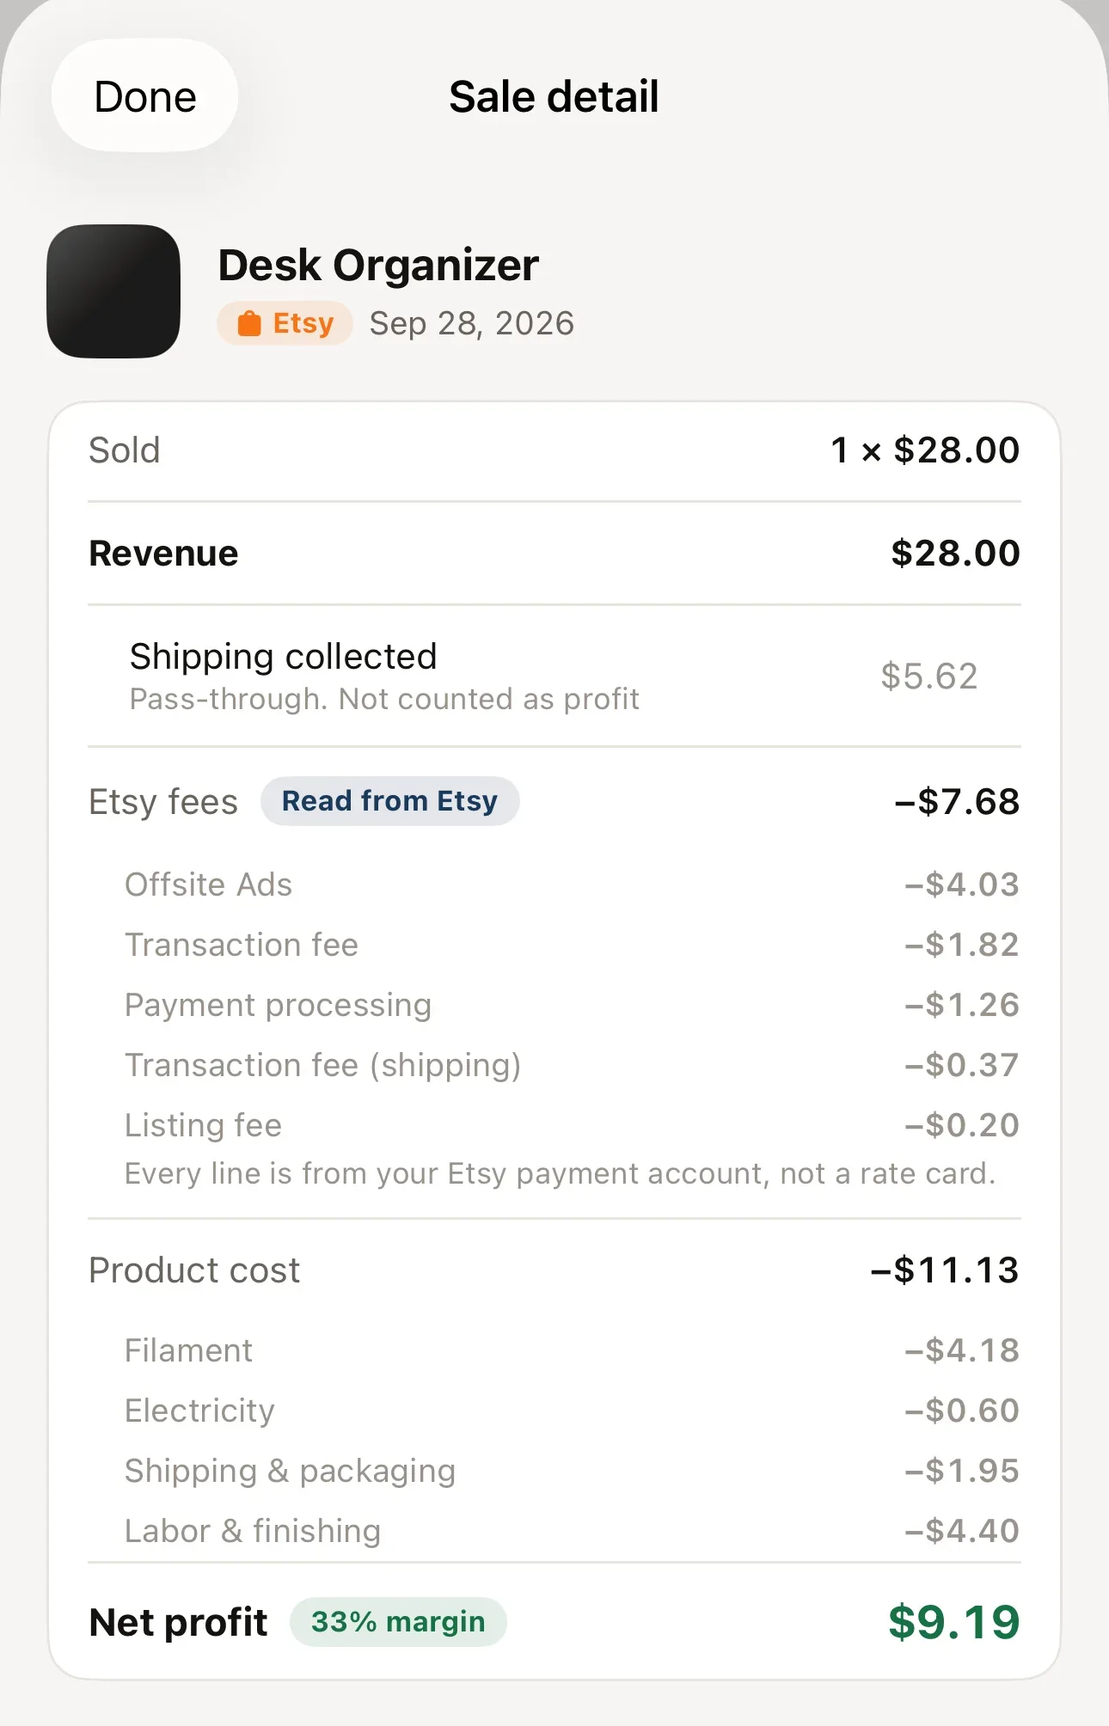
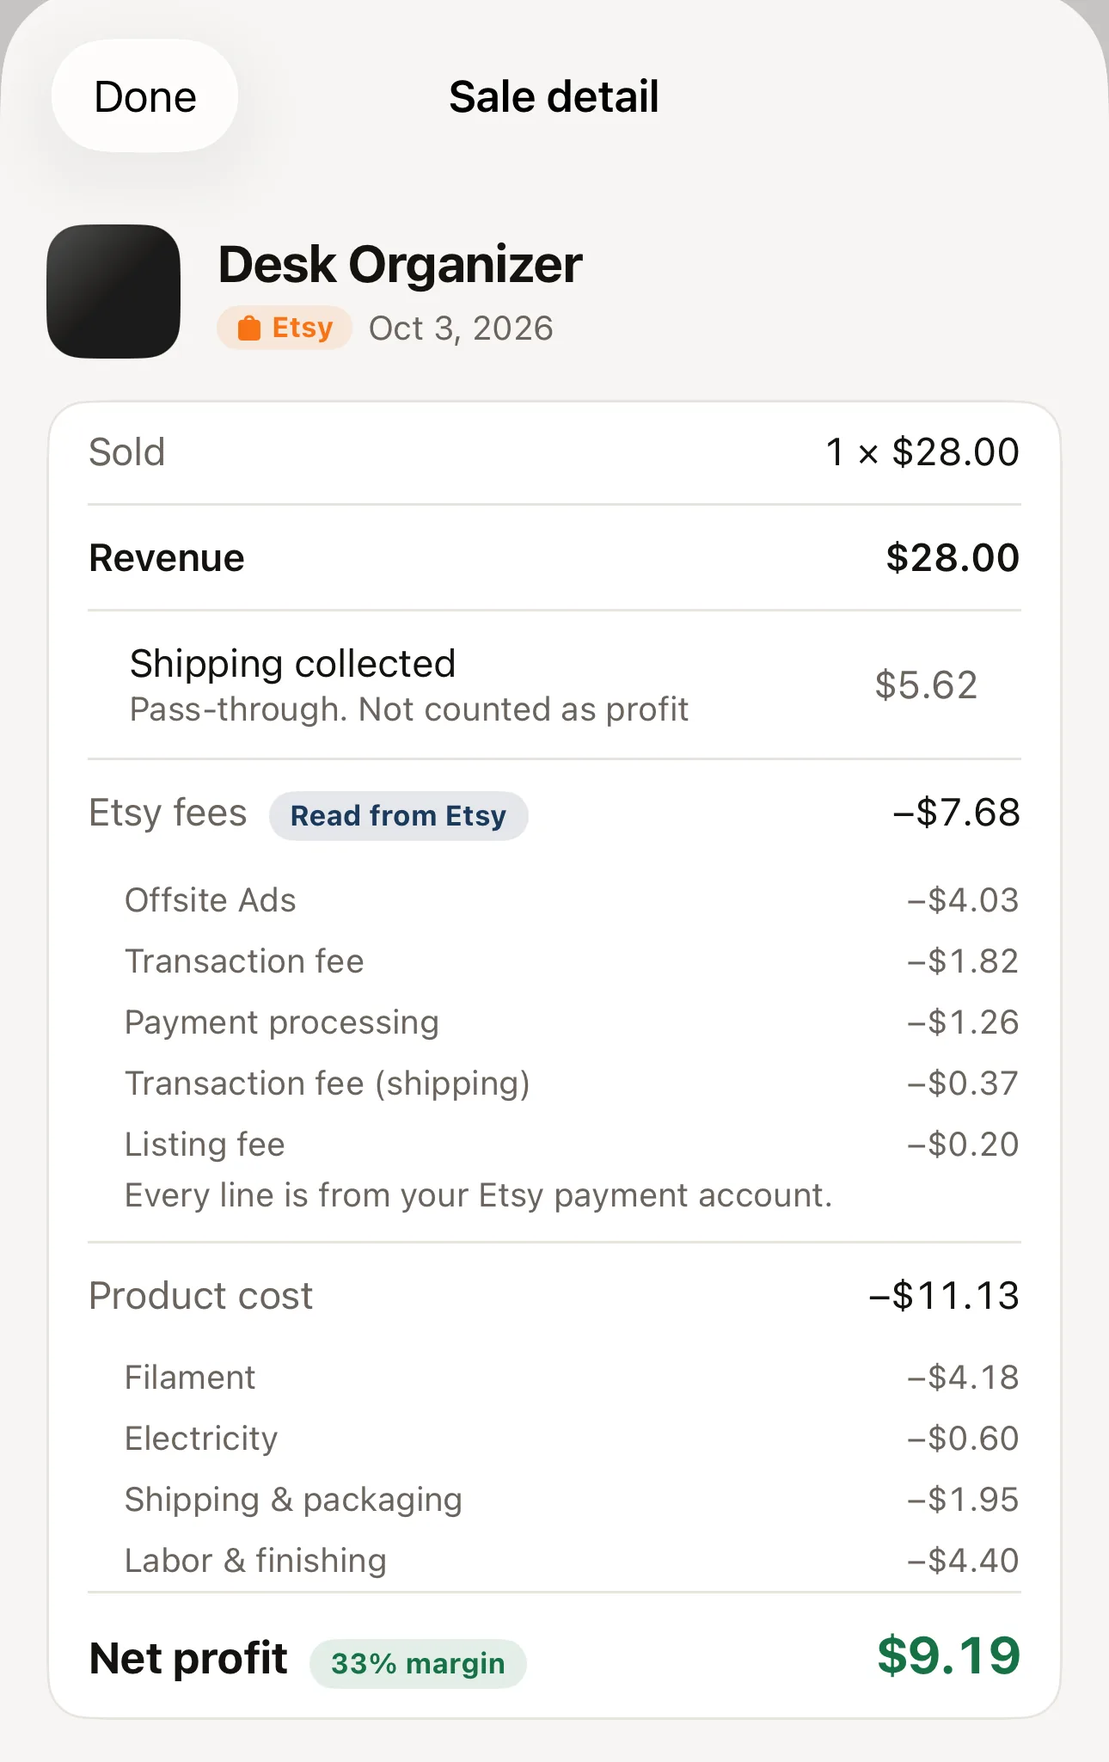
Site: author page in first person; drop the "not a rate card" tag-on
Author page: one name, first person. The headline says who Sean is, the
opening is his own account of why he built the app, the shop facts are a
scannable list, and the writing is grouped as guides, comparisons and
reference with one download action at the end.

Copy: three lines that ended "..., not a rate card" now stop at where the
number comes from. The sale receipt image is a fresh capture with the
one-line footnote "Every line is from your Etsy payment account."

diff --git a/author/sean.html b/author/sean.html
@@ -113,6 +113,61 @@
   ]
 }
   </script>
+  <style>
+    /* Author page only. Sizes, colors and space are the shared tokens; nothing here adds a
+       size or a hue. One layout idea, used three times: a label rail beside a content column,
+       ruled like the fee lines the app reads. */
+    .doc{--rail:140px}
+    .doc :focus-visible{outline:2px solid var(--cta);outline-offset:2px;border-radius:4px}
+
+    /* ---- label rail + value column: the shop facts, and the profile links ---- */
+    .rows{margin:var(--s6) 0 0;border-top:1px solid var(--rule-2);border-bottom:1px solid var(--rule-2)}
+    h2 + .rows{margin-top:var(--s4)}
+    .rows > div{display:grid;grid-template-columns:var(--rail) minmax(0,1fr);column-gap:var(--s5);align-items:baseline;padding:var(--s3) 0}
+    .rows > div + div{border-top:1px solid var(--rule)}
+    .rows dt{font-size:var(--fs-ui);color:var(--muted)}
+    .rows dd{margin:0;color:var(--body);text-wrap:pretty}
+    .rows + .fine{margin:var(--s3) 0 0}
+    /* A dd sits outside article.css's in-copy link rule, so the same link is restated here. */
+    .rows dd > a{color:var(--cta);font-weight:600;text-decoration:underline;text-decoration-thickness:1px;
+      text-underline-offset:.18em;text-decoration-color:color-mix(in srgb,var(--cta) 40%,transparent)}
+    .rows dd > a:hover{color:var(--cta-hover);text-decoration-color:currentColor}
+    /* 44px press areas that don't grow the row: inline padding widens the target, not the line. */
+    .rows dd > a{padding:11px 0}
+    .links{list-style:none;margin:-10px 0;padding:0;display:flex;flex-wrap:wrap;column-gap:var(--s5)}
+    .links li{margin:0}
+    .links a{display:inline-block;padding:10px 0}
+
+    /* ---- his words: the one first-person passage on the page, a step up and in full ink ---- */
+    .said{margin:var(--s7) 0 0}
+    .said blockquote{margin:0;font-size:var(--fs-sub);line-height:1.4;letter-spacing:var(--ls-title);color:var(--ink);
+      text-indent:-.42em} /* hangs the opening quote mark in the margin so the text edge stays straight */
+    .said figcaption{margin-top:var(--s3);font-size:var(--fs-ui);color:var(--muted)}
+
+    /* ---- the writing index: group name in the rail, each title over its one-line description ---- */
+    .works{margin:var(--s5) 0 0;border-bottom:1px solid var(--rule-2)}
+    .works > div{display:grid;grid-template-columns:var(--rail) minmax(0,1fr);column-gap:var(--s5);align-items:baseline;
+      padding:var(--s5) 0;border-top:1px solid var(--rule)}
+    .works > div:first-child{border-top-color:var(--rule-2)}
+    .works h3{margin:0}
+    .works ul{list-style:none;margin:0;padding:0}
+    .works li{position:relative;margin:0;line-height:1.4}
+    .works li + li{margin-top:var(--s4)}
+    .works li a::after{content:"";position:absolute;inset:-8px 0} /* the whole entry is the press area */
+    .works li p{margin:2px 0 0;font-size:var(--fs-ui);line-height:1.5;color:var(--body)}
+    .works + p{margin-top:var(--s4)}
+
+    .cta p:last-child{margin-bottom:0}
+
+    @media (max-width:600px){
+      .doc{--rail:76px}
+      .rows > div,.links{column-gap:var(--s4)}
+      .said blockquote{font-size:var(--fs-lede);line-height:var(--lh-lede)}
+      .works > div{display:block}
+      .works h3{margin-bottom:var(--s3)}
+    }
+    @media (max-width:380px){.cta{padding:var(--s5) 20px}}
+  </style>
 </head>
 <body>
   <header>
@@ -133,38 +188,70 @@
 
   <main class="doc">
     <p class="crumb"><a href="/">SpoolPilot</a></p>
-    <h1>Sean</h1>
-    <p class="lede">Sean runs <a href="https://opusdesigncompany.etsy.com">Opus Design Company</a>, a 3D-print shop on Etsy with more than 3,000 sales, and built SpoolPilot to see what each of those orders actually made. Every guide on this site is what that shop tracks and why.</p>
+    <h1>I&rsquo;m Sean. I sell 3D prints on Etsy, and I built SpoolPilot.</h1>
+    <p class="lede">I could never get a straight answer on what an order actually made after Etsy&rsquo;s fees, filament, and my time. Spreadsheets fell behind, and every other tool wanted a desktop. So I built the one I wanted: real profit, in my pocket, right at the printer.</p>
 
-    <h2>The shop</h2>
-    <p>Opus Design Company sells 3D-printed coffee gear on Etsy: dosing stands for grinders, filter holders and brewer accessories, printed on a few printers in a spare room. As of October&nbsp;2026 the shop shows 3,100+ sales and a 4.8-star rating from more than 700 reviews.</p>
-    <p>The guides on this site come out of running that shop: the fees Opus Design Company pays on each order, the way it prices a new listing, and the way it keeps count of sealed spools.</p>
-
-    <h2>Why SpoolPilot exists</h2>
-    <p>In Sean&rsquo;s words: &ldquo;I could never get a straight answer on what an order actually made after Etsy&rsquo;s fees, filament, and my time. Spreadsheets fell behind, and every other tool wanted a desktop. So I built the one I wanted: real profit, in my pocket, right at the printer.&rdquo;</p>
-    <p>SpoolPilot is an iPhone app published by Opus Design Group LLC. It reads the fees Etsy charged on each order, subtracts filament, electricity and packaging, and shows the profit per sale, per product and per month.</p>
+    <dl class="rows">
+      <div><dt>My shop</dt><dd><a href="https://opusdesigncompany.etsy.com" aria-label="Opus Design Company on Etsy">Opus Design Company</a></dd></div>
+      <div><dt>Sales</dt><dd><strong class="num">3,100+</strong></dd></div>
+      <div><dt>Rating</dt><dd><strong class="num">4.8 stars</strong> from more than 700 reviews</dd></div>
+      <div><dt>What I sell</dt><dd>3D-printed coffee gear: dosing stands for grinders, filter holders and brewer accessories</dd></div>
+      <div><dt>I print on</dt><dd>A few printers in a spare room</dd></div>
+    </dl>
+    <p class="fine">Sales and rating as of October&nbsp;2026.</p>
 
     <h2>Writing on this site</h2>
-    <ul>
-      <li><a href="/resources/3d-printing-pricing-calculator">How to price 3D prints</a>. Cost, fees and margin, solved for a price, with a worked example.</li>
-      <li><a href="/resources/3d-printing-profit-calculator">How to calculate the real profit on a 3D print</a>. One order rebuilt from the payment account, then a month.</li>
-      <li><a href="/resources/etsy-fees-3d-printing">Etsy fees for 3D print sellers</a>. The four fees on a US sale, and an order with shipping run all the way through.</li>
-      <li><a href="/etsy-fees-vs-rate-card.html">Why Etsy takes more than the rate card says</a>. Five places the formula and the ledger disagree, and a ten-minute check.</li>
-      <li><a href="/resources/filament-inventory-management">How to track filament inventory for a 3D printing business</a>. Sealed spool counts, usage rate and weeks of stock.</li>
-      <li><a href="/3d-printing-business-software">What software does a 3D printing business actually need?</a>. The four numbers a small shop has to trust, and which tools give them.</li>
-      <li><a href="/3dpcc-alternative.html">3DPCC vs SpoolPilot</a>. Pricing a print before you make it, and what it made after it sold.</li>
-      <li><a href="/craftybase-alternative.html">A Craftybase alternative built for 3D print shops</a>. Handmade bookkeeping next to a tool that knows what a spool is.</li>
-      <li><a href="/spoolman-alternative.html">Spoolman vs SpoolPilot</a>. Grams left on a spool, or money made by the shop.</li>
-      <li><a href="/what-spoolpilot-reads-from-etsy.html">What SpoolPilot reads from Etsy</a>. Every field the app reads, and what it never touches.</li>
-    </ul>
-    <p>He also built the <a href="/etsy-fee-calculator.html">free 3D print cost and price calculator</a>.</p>
+    <p>The guides come out of running my shop: the fees I pay on each order, the way I price a new listing, and the way I keep count of sealed spools.</p>
+    <div class="works">
+      <div>
+        <h3>Guides</h3>
+        <ul>
+          <li><a href="/resources/3d-printing-pricing-calculator">How to price 3D prints</a><p>Cost, fees and margin, solved for a price, with a worked example.</p></li>
+          <li><a href="/resources/3d-printing-profit-calculator">How to calculate the real profit on a 3D print</a><p>One order rebuilt from the payment account, then a month.</p></li>
+          <li><a href="/resources/etsy-fees-3d-printing">Etsy fees for 3D print sellers</a><p>The four fees on a US sale, and an order with shipping run all the way through.</p></li>
+          <li><a href="/etsy-fees-vs-rate-card.html">Why Etsy takes more than the rate card says</a><p>Five places the formula and the ledger disagree, and a ten-minute check.</p></li>
+          <li><a href="/resources/filament-inventory-management">How to track filament inventory for a 3D printing business</a><p>Sealed spool counts, usage rate and weeks of stock.</p></li>
+          <li><a href="/3d-printing-business-software">What software does a 3D printing business actually need?</a><p>The four numbers a small shop has to trust, and which tools give them.</p></li>
+        </ul>
+      </div>
+      <div>
+        <h3>Comparisons</h3>
+        <ul>
+          <li><a href="/3dpcc-alternative.html">3DPCC vs SpoolPilot</a><p>Pricing a print before you make it, and what it made after it sold.</p></li>
+          <li><a href="/craftybase-alternative.html">A Craftybase alternative built for 3D print shops</a><p>Handmade bookkeeping next to a tool that knows what a spool is.</p></li>
+          <li><a href="/spoolman-alternative.html">Spoolman vs SpoolPilot</a><p>Grams left on a spool, or money made by the shop.</p></li>
+        </ul>
+      </div>
+      <div>
+        <h3>Reference</h3>
+        <ul>
+          <li><a href="/what-spoolpilot-reads-from-etsy.html">What SpoolPilot reads from Etsy</a><p>Every field the app reads, and what it never touches.</p></li>
+        </ul>
+      </div>
+    </div>
+    <p>I also built the <a href="/etsy-fee-calculator.html">free 3D print cost and price calculator</a>.</p>
 
     <h2>Elsewhere</h2>
-    <ul>
-      <li><a href="https://opusdesigncompany.etsy.com">Opus Design Company on Etsy</a></li>
-      <li>SpoolPilot on <a href="https://www.instagram.com/spoolpilot.app/">Instagram</a>, <a href="https://www.tiktok.com/@spoolpilot.app">TikTok</a>, <a href="https://www.youtube.com/@spoolpilot">YouTube</a> and <a href="https://www.facebook.com/spoolpilot">Facebook</a></li>
-      <li><a href="https://apps.apple.com/app/apple-store/id6796133961?pt=129235298&amp;ct=site-author&amp;mt=8">SpoolPilot on the App Store</a></li>
-    </ul>
+    <dl class="rows">
+      <div><dt>Etsy shop</dt><dd><a href="https://opusdesigncompany.etsy.com" aria-label="Opus Design Company on Etsy">Opus Design Company</a></dd></div>
+      <div>
+        <dt>SpoolPilot</dt>
+        <dd>
+          <ul class="links">
+            <li><a href="https://www.instagram.com/spoolpilot.app/" aria-label="SpoolPilot on Instagram">Instagram</a></li>
+            <li><a href="https://www.tiktok.com/@spoolpilot.app" aria-label="SpoolPilot on TikTok">TikTok</a></li>
+            <li><a href="https://www.youtube.com/@spoolpilot" aria-label="SpoolPilot on YouTube">YouTube</a></li>
+            <li><a href="https://www.facebook.com/spoolpilot" aria-label="SpoolPilot on Facebook">Facebook</a></li>
+          </ul>
+        </dd>
+      </div>
+    </dl>
+
+    <div class="cta">
+      <h2>See what each of your orders actually made</h2>
+      <p>SpoolPilot is an iPhone app published by Opus Design Group LLC. It reads the fees Etsy charged on each order, subtracts filament, electricity and packaging, and shows the profit per sale, per product and per month.</p>
+      <p><a class="btn-big" href="https://apps.apple.com/app/apple-store/id6796133961?pt=129235298&amp;ct=site-author&amp;mt=8"><span class="btnlabel-full">Download SpoolPilot on the App Store</span><span class="btnlabel-short">Download on the App Store</span></a></p>
+    </div>
   </main>
 
   <footer>

diff --git a/resources/etsy-fees-3d-printing.html b/resources/etsy-fees-3d-printing.html
@@ -224,7 +224,7 @@
     <p>In Shop Manager, under Finances, then Payment account: each order shows its fee lines, and a monthly statement can be downloaded as a CSV. For one order it is a minute. For a month of orders it is the chore that makes sellers give up and go back to guessing, which is why this app exists.</p>
     <p>SpoolPilot connects to an Etsy shop read-only and reads the fee entries Etsy actually charged on each synced order (transaction, processing, listing, Offsite Ads) directly from the payment ledger, through Etsy&rsquo;s API (the <a href="https://developers.etsy.com/documentation/reference/#tag/Ledger-Entry">ledger entries</a> it documents). Nothing on that screen is computed from a rate card. Each order shows its fees itemized against what the buyer paid, with buyer-paid shipping treated as a pass-through and your label and cost of goods subtracted. When an order&rsquo;s money doesn&rsquo;t reconcile to Etsy&rsquo;s total, the app labels the figure an estimate instead of pretending. The free tier reads real fees on up to ten orders a month; Pro reads them on every order.</p>
     <figure class="shot">
-      <img src="/shot-sale-receipt.webp" width="1290" height="2008" loading="lazy" decoding="async" alt="SpoolPilot sale detail for a $28 Desk Organizer sold on Etsy, $5.62 shipping collected as a pass-through: $7.68 in Etsy fees marked Read from Etsy and itemized as Offsite Ads $4.03, transaction fee $1.82, payment processing $1.26, transaction fee on shipping $0.37 and listing fee $0.20; $11.13 product cost; net profit $9.19 at a 33% margin.">
+      <img src="/shot-sale-receipt.webp?v=2" width="1290" height="2049" loading="lazy" decoding="async" alt="SpoolPilot sale detail for a $28 Desk Organizer sold on Etsy, $5.62 shipping collected as a pass-through: $7.68 in Etsy fees marked Read from Etsy and itemized as Offsite Ads $4.03, transaction fee $1.82, payment processing $1.26, transaction fee on shipping $0.37 and listing fee $0.20; $11.13 product cost; net profit $9.19 at a 33% margin.">
       <figcaption>The fee lines for one order (demo shop), as SpoolPilot reads them from the Etsy payment account. This order came through an Offsite Ad.</figcaption>
     </figure>
     <p>Reading a shop&rsquo;s payment ledger through the Etsy API requires Etsy&rsquo;s approval, which Etsy grants after reviewing what an app does and how it handles a seller&rsquo;s data. SpoolPilot went through that review and holds commercial API access. That is the difference between reading the fee lines Etsy posted for an order and estimating them from the published rate card, which is what most tools that promise &ldquo;real profit&rdquo; actually do. (The approval covers API access; Etsy does not endorse or certify the app.)</p>

diff --git a/3dpcc-alternative.html b/3dpcc-alternative.html
@@ -171,10 +171,10 @@
     <h2>Does 3DPCC show what an Etsy order actually earned?</h2>
     <p>No. 3DPCC&rsquo;s Etsy feature estimates fees from the published rate card, in its own words to see your net profit <em>before you list</em>. That&rsquo;s a reasonable way to price. It is not a way to know what happened.</p>
     <p>Etsy publishes a rate card in its <a href="https://www.etsy.com/legal/fees/">Fees &amp; Payments Policy</a> (transaction 6.5%, processing 3% + $0.25, listing $0.20, Offsite Ads 15%) and any calculator can apply it. What Etsy deposits often isn&rsquo;t that number. Offsite Ads gets attributed partially rather than landing cleanly on the order you&rsquo;d expect. Processing rates differ by country. Coupons change the base the percentage applies to. Regulatory fees appear in some regions and in no formula.</p>
-    <p>SpoolPilot connects to your shop and reads the fee entries on the orders themselves, the <a href="https://developers.etsy.com/documentation/reference/#tag/Ledger-Entry">payment account ledger entries</a> Etsy&rsquo;s API exposes. So the profit on each order uses the fees Etsy charged, not the rate card&rsquo;s estimate.</p>
+    <p>SpoolPilot connects to your shop and reads the fee entries on the orders themselves, the <a href="https://developers.etsy.com/documentation/reference/#tag/Ledger-Entry">payment account ledger entries</a> Etsy&rsquo;s API exposes. So the profit on each order uses the fees Etsy actually charged.</p>
     <figure class="shot">
-      <img src="/shot-sale-receipt.webp" width="1290" height="2008" loading="lazy" decoding="async" alt="SpoolPilot sale detail for a $28 Desk Organizer sold on Etsy: $7.68 in Etsy fees marked Read from Etsy and itemized as Offsite Ads $4.03, transaction fee $1.82, payment processing $1.26, transaction fee on shipping $0.37 and listing fee $0.20; $11.13 product cost; net profit $9.19 at a 33% margin.">
-      <figcaption>One synced order in SpoolPilot (demo shop). Each fee line comes from the Etsy payment account, not the rate card.</figcaption>
+      <img src="/shot-sale-receipt.webp?v=2" width="1290" height="2049" loading="lazy" decoding="async" alt="SpoolPilot sale detail for a $28 Desk Organizer sold on Etsy: $7.68 in Etsy fees marked Read from Etsy and itemized as Offsite Ads $4.03, transaction fee $1.82, payment processing $1.26, transaction fee on shipping $0.37 and listing fee $0.20; $11.13 product cost; net profit $9.19 at a 33% margin.">
+      <figcaption>One synced order in SpoolPilot (demo shop). Each fee line comes from the Etsy payment account.</figcaption>
     </figure>
 
     <h2>How SpoolPilot compares</h2>

diff --git a/resources/3d-printing-pricing-calculator.html b/resources/3d-printing-pricing-calculator.html
@@ -247,7 +247,7 @@
     <p>Because percentage fees are charged on the price itself, so fees added after the fact shrink the margin you thought you had. The common shortcut is to add up the cost, double it, and call the rest profit. Then the platform takes its percentage off the top and the doubled price turns out to have been a 35% margin, or a 20% one once shipping and the failure rate are in. Percentage fees are charged on the price, and the price is the thing you are trying to find, which is why they belong in the denominator of the formula rather than as a line added at the end. On a marketplace they also apply to the shipping the buyer pays, which is easy to miss: the <a href="/resources/etsy-fees-3d-printing">Etsy fees page</a> works through an order with shipping included.</p>
     <p><strong>Sometimes the formula returns a price the market will not pay.</strong> When it does, either the cost has to come down (a faster print profile, cheaper packaging, less finishing), the margin has to come down, or the product should not be made. A calculator that prints a price for an unreachable margin without warning you is worse than one that says so; the free one on this site tells you the highest margin that is reachable instead.</p>
     <figure class="shot">
-      <img src="/shot-sale-receipt.webp" width="1290" height="2008" loading="lazy" decoding="async" alt="SpoolPilot sale detail for a $28 Desk Organizer sold on Etsy: $7.68 in Etsy fees read from the payment account (Offsite Ads $4.03, transaction fee $1.82, payment processing $1.26, transaction fee on shipping $0.37, listing fee $0.20), then $11.13 of product cost (filament, electricity, shipping and packaging, labor and finishing), leaving $9.19 net profit at a 33% margin.">
+      <img src="/shot-sale-receipt.webp?v=2" width="1290" height="2049" loading="lazy" decoding="async" alt="SpoolPilot sale detail for a $28 Desk Organizer sold on Etsy: $7.68 in Etsy fees read from the payment account (Offsite Ads $4.03, transaction fee $1.82, payment processing $1.26, transaction fee on shipping $0.37, listing fee $0.20), then $11.13 of product cost (filament, electricity, shipping and packaging, labor and finishing), leaving $9.19 net profit at a 33% margin.">
       <figcaption>A $28 sale in SpoolPilot (demo shop). Etsy&rsquo;s fees took $7.68, 27% of it, before the product cost a cent.</figcaption>
     </figure>
 

diff --git a/etsy-fee-calculator.html b/etsy-fee-calculator.html
@@ -338,7 +338,7 @@
     <p>Real orders drift from the rate card. Coupons change the base the percentages apply to. Offsite Ads only hits some orders, at 12% or 15%. Processing rates differ by country. Some regions add regulatory fees.</p>
     <p>In the app, synced orders skip the estimate. SpoolPilot reads the fees Etsy charged on each one, line by line.</p>
     <figure class="shot">
-      <img src="/shot-sale-receipt.webp" width="1290" height="2008" loading="lazy" decoding="async" alt="SpoolPilot sale detail for a $28 Desk Organizer sold on Etsy with $5.62 shipping collected: $7.68 in Etsy fees marked Read from Etsy, itemized as Offsite Ads $4.03, transaction fee $1.82, payment processing $1.26, transaction fee on shipping $0.37 and listing fee $0.20; $11.13 product cost; net profit $9.19 at a 33% margin.">
+      <img src="/shot-sale-receipt.webp?v=2" width="1290" height="2049" loading="lazy" decoding="async" alt="SpoolPilot sale detail for a $28 Desk Organizer sold on Etsy with $5.62 shipping collected: $7.68 in Etsy fees marked Read from Etsy, itemized as Offsite Ads $4.03, transaction fee $1.82, payment processing $1.26, transaction fee on shipping $0.37 and listing fee $0.20; $11.13 product cost; net profit $9.19 at a 33% margin.">
       <figcaption>A synced $28 order in the app (demo shop). It came through an Offsite Ad, so Etsy took $7.68; the same order without the ad pays $3.65.</figcaption>
     </figure>
 

diff --git a/what-spoolpilot-reads-from-etsy.html b/what-spoolpilot-reads-from-etsy.html
@@ -192,7 +192,7 @@
 
     <div class="cta">
       <h2>See the actual fee on your own orders</h2>
-      <p>Free to connect. The first ten synced orders a month cost nothing, and the fee on each one comes from your ledger, not a rate card.</p>
+      <p>Free to connect. The first ten synced orders a month cost nothing, and the fee on each one comes from your Etsy payment account.</p>
       <p><a class="btn-big" href="https://apps.apple.com/app/apple-store/id6796133961?pt=129235298&ct=etsy-access-page&mt=8">Download on the App Store</a></p>
     </div>
 
